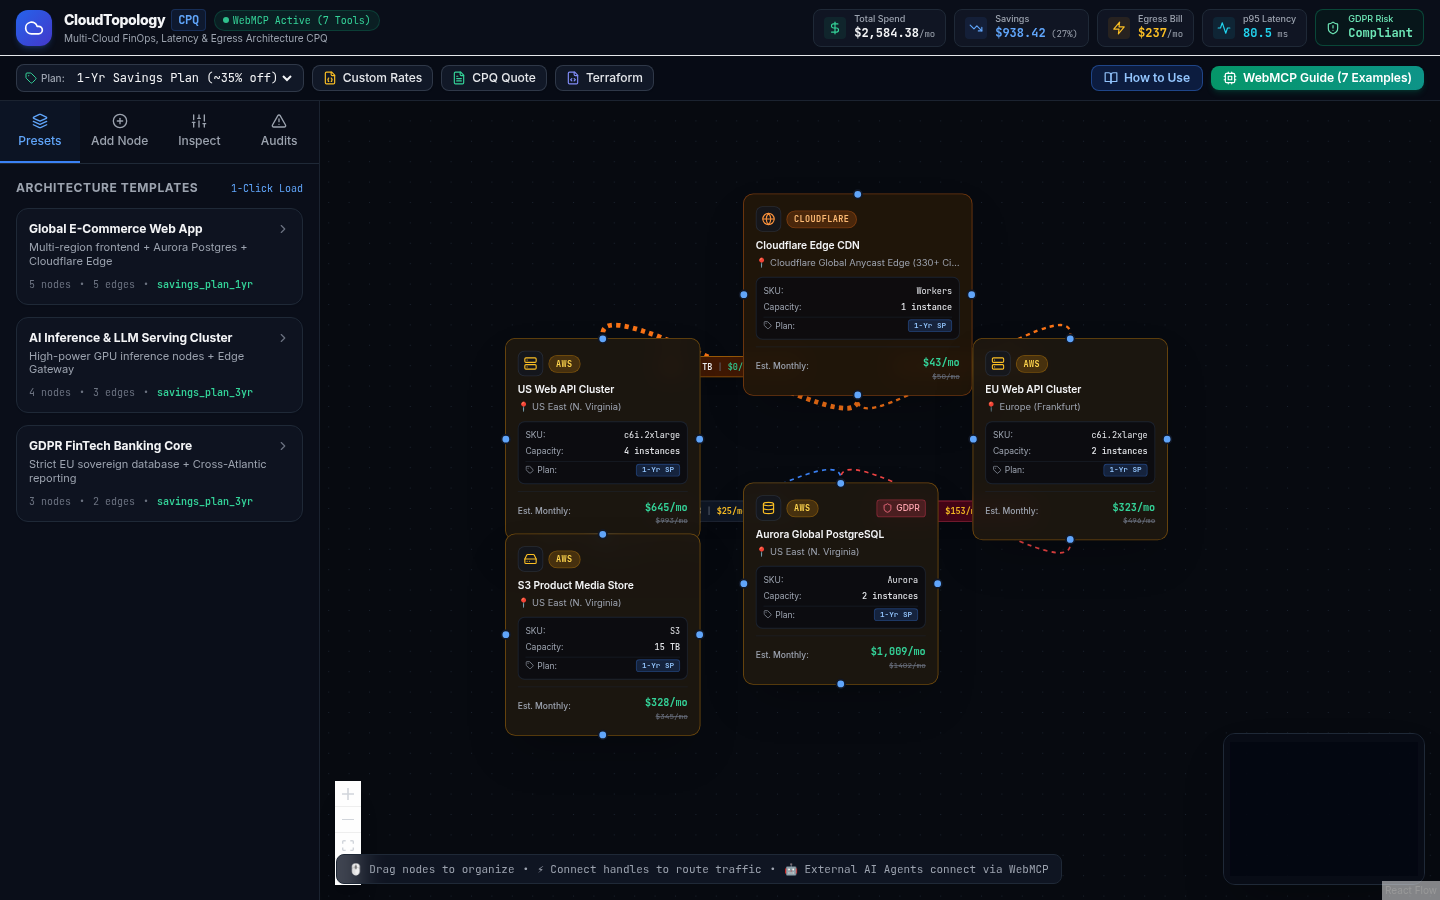
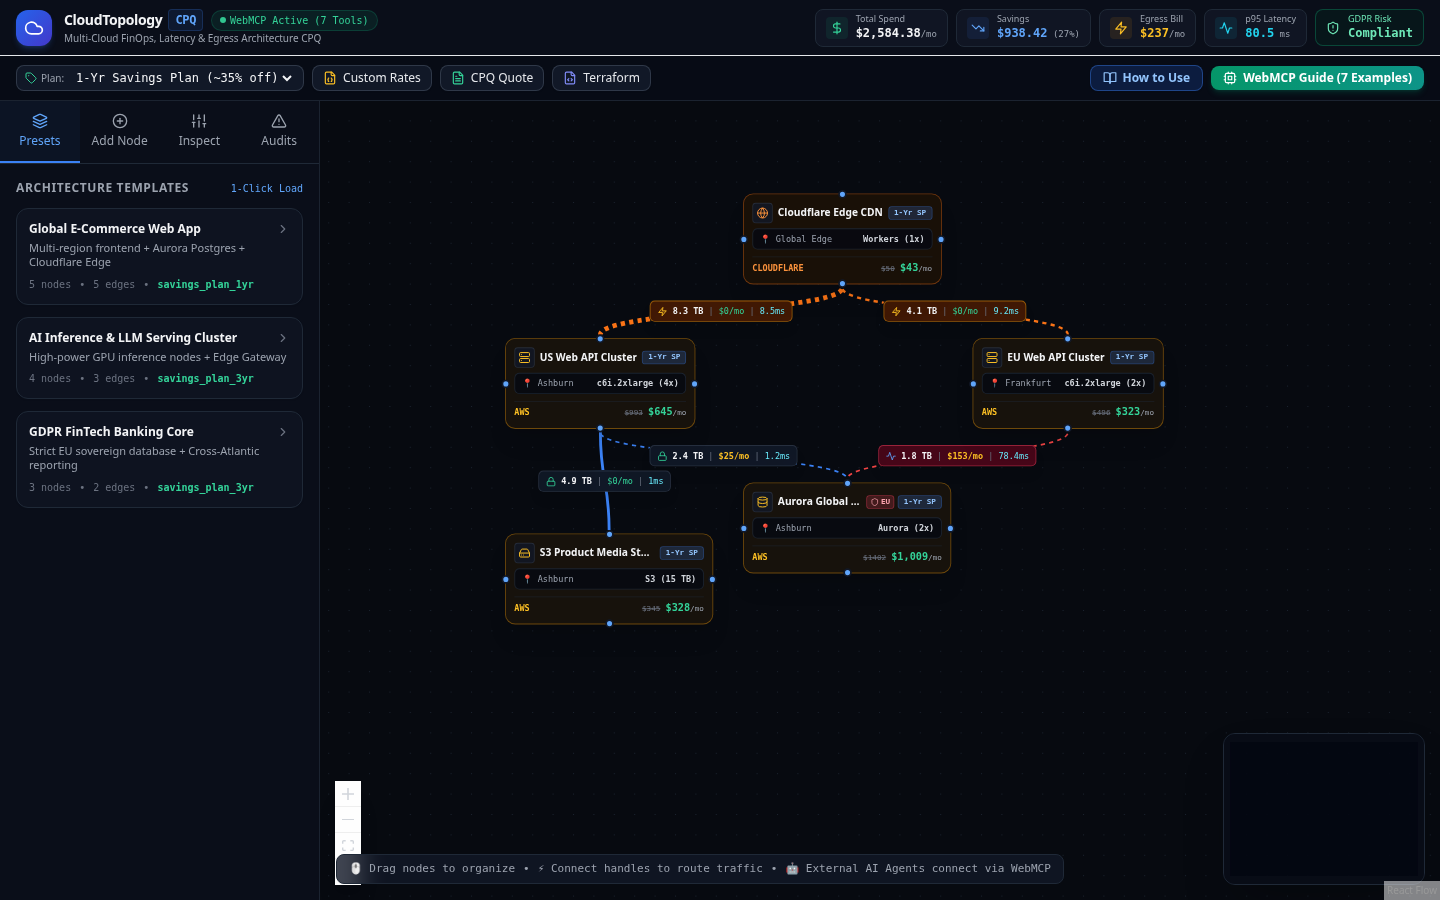
style: Reduce node card height by 40% for sleek high-density multi-region canvas

diff --git a/src/components/CustomNode.tsx b/src/components/CustomNode.tsx
@@ -1,32 +1,32 @@
 import { memo } from 'react';
 import { Handle, Position } from '@xyflow/react';
-import { Server, Database, HardDrive, Globe, Shield, Layers, Tag } from 'lucide-react';
+import { Server, Database, HardDrive, Globe, Shield, Layers } from 'lucide-react';
 import { TopologyNodeData } from '../types/topology';
 import { CLOUD_REGIONS, RESOURCE_SKUS } from '../data/catalog';
 
 const providerStyles: Record<string, { bg: string; border: string; badge: string; text: string }> = {
   aws: {
-    bg: 'bg-[#1E170F]/90',
+    bg: 'bg-[#18130D]/95',
     border: 'border-amber-500/40 hover:border-amber-500',
-    badge: 'bg-amber-500/20 text-amber-300 border-amber-500/30',
+    badge: 'bg-amber-500/15 text-amber-300 border-amber-500/30',
     text: 'text-amber-400',
   },
   gcp: {
-    bg: 'bg-[#0E1B2E]/90',
+    bg: 'bg-[#0B1524]/95',
     border: 'border-blue-500/40 hover:border-blue-500',
-    badge: 'bg-blue-500/20 text-blue-300 border-blue-500/30',
+    badge: 'bg-blue-500/15 text-blue-300 border-blue-500/30',
     text: 'text-blue-400',
   },
   azure: {
-    bg: 'bg-[#0D1C29]/90',
+    bg: 'bg-[#0A1620]/95',
     border: 'border-cyan-500/40 hover:border-cyan-500',
-    badge: 'bg-cyan-500/20 text-cyan-300 border-cyan-500/30',
+    badge: 'bg-cyan-500/15 text-cyan-300 border-cyan-500/30',
     text: 'text-cyan-400',
   },
   cloudflare: {
-    bg: 'bg-[#221609]/90',
+    bg: 'bg-[#1A1107]/95',
     border: 'border-orange-500/40 hover:border-orange-500',
-    badge: 'bg-orange-500/20 text-orange-300 border-orange-500/30',
+    badge: 'bg-orange-500/15 text-orange-300 border-orange-500/30',
     text: 'text-orange-400',
   },
 };
@@ -42,9 +42,9 @@ const serviceIcons: Record<string, any> = {
 
 const planLabels: Record<string, { label: string; bg: string; text: string }> = {
   on_demand: { label: 'On-Demand', bg: 'bg-gray-800 text-gray-300 border-gray-700', text: 'text-gray-300' },
-  savings_plan_1yr: { label: '1-Yr SP (~35% off)', bg: 'bg-blue-500/20 text-blue-300 border-blue-500/30', text: 'text-blue-400' },
-  savings_plan_3yr: { label: '3-Yr SP (~55% off)', bg: 'bg-emerald-500/20 text-emerald-300 border-emerald-500/30', text: 'text-emerald-400' },
-  spot: { label: 'Spot (~65% off)', bg: 'bg-purple-500/20 text-purple-300 border-purple-500/30', text: 'text-purple-400' },
+  savings_plan_1yr: { label: '1-Yr SP', bg: 'bg-blue-500/20 text-blue-300 border-blue-500/30', text: 'text-blue-400' },
+  savings_plan_3yr: { label: '3-Yr SP', bg: 'bg-emerald-500/20 text-emerald-300 border-emerald-500/30', text: 'text-emerald-400' },
+  spot: { label: 'Spot', bg: 'bg-purple-500/20 text-purple-300 border-purple-500/30', text: 'text-purple-400' },
 };
 
 export const CustomNode = memo((props: any) => {
@@ -75,88 +75,74 @@ export const CustomNode = memo((props: any) => {
 
   const dynamicMonthlyCost = Math.round(onDemandTotal * (1 - discount));
 
+  // Capacity short display
+  const capacityLabel = data.serviceType === 'storage'
+    ? `${(data.allocatedStorageGb || 1000) / 1000} TB`
+    : `${data.instances || 1}x`;
+
+  const shortSku = sku?.name ? sku.name.split(' ')[1] || sku.name : data.skuId || 'Standard';
+
   return (
     <div
-      className={`relative rounded-xl border p-3.5 shadow-2xl backdrop-blur-md transition-all duration-200 min-w-[230px] max-w-[270px] ${
+      className={`relative rounded-xl border p-2.5 shadow-xl backdrop-blur-md transition-all duration-200 min-w-[210px] max-w-[245px] ${
         providerStyle.bg
       } ${providerStyle.border} ${
         selected ? 'ring-2 ring-blue-400 scale-[1.02] shadow-blue-500/20' : ''
       }`}
     >
       {/* Connection Handles */}
-      <Handle type="target" position={Position.Top} className="!w-3 !h-3 !bg-blue-400 !border-2 !border-gray-900" />
-      <Handle type="source" position={Position.Bottom} className="!w-3 !h-3 !bg-blue-400 !border-2 !border-gray-900" />
-      <Handle type="target" position={Position.Left} className="!w-3 !h-3 !bg-blue-400 !border-2 !border-gray-900" />
-      <Handle type="source" position={Position.Right} className="!w-3 !h-3 !bg-blue-400 !border-2 !border-gray-900" />
+      <Handle type="target" position={Position.Top} className="!w-2.5 !h-2.5 !bg-blue-400 !border-2 !border-gray-900" />
+      <Handle type="source" position={Position.Bottom} className="!w-2.5 !h-2.5 !bg-blue-400 !border-2 !border-gray-900" />
+      <Handle type="target" position={Position.Left} className="!w-2.5 !h-2.5 !bg-blue-400 !border-2 !border-gray-900" />
+      <Handle type="source" position={Position.Right} className="!w-2.5 !h-2.5 !bg-blue-400 !border-2 !border-gray-900" />
 
-      {/* Header: Provider & Service Type */}
-      <div className="flex items-center justify-between gap-2 mb-2">
-        <div className="flex items-center gap-1.5">
-          <div className={`p-1.5 rounded-lg bg-gray-900/60 border border-gray-700/50 ${providerStyle.text}`}>
-            <ServiceIcon className="w-4 h-4" />
+      {/* Row 1: Icon + Title + Plan & GDPR Badges */}
+      <div className="flex items-center justify-between gap-1.5 mb-1.5">
+        <div className="flex items-center gap-1.5 min-w-0">
+          <div className={`p-1 rounded bg-gray-900/80 border border-gray-700/50 ${providerStyle.text} flex-shrink-0`}>
+            <ServiceIcon className="w-3.5 h-3.5" />
           </div>
-          <span className={`text-[10px] font-mono font-bold tracking-wider px-2 py-0.5 rounded-full border ${providerStyle.badge}`}>
-            {provider.toUpperCase()}
+          <span className="font-bold text-xs text-gray-100 truncate">
+            {data.label || 'Node'}
           </span>
         </div>
-        
-        {data.isPII && (
-          <span className="flex items-center gap-1 text-[10px] font-medium px-1.5 py-0.5 rounded bg-rose-500/20 text-rose-300 border border-rose-500/40" title="Contains PII Data - Subject to GDPR">
-            <Shield className="w-3 h-3 text-rose-400" />
-            GDPR
-          </span>
-        )}
-      </div>
 
-      {/* Node Title */}
-      <div className="font-semibold text-xs text-gray-100 truncate mb-1">
-        {data.label || 'Node'}
-      </div>
-
-      {/* Region & SKU Info */}
-      <div className="text-[11px] text-gray-400 mb-2 truncate">
-        📍 {region?.name || data.regionId || 'Global'}
-      </div>
-
-      {/* Specs / Details */}
-      <div className="bg-gray-950/60 rounded-lg p-2 border border-gray-800/80 mb-2 space-y-1">
-        <div className="flex justify-between items-center text-[10px] text-gray-300">
-          <span className="text-gray-400">SKU:</span>
-          <span className="font-mono text-gray-200 truncate max-w-[120px]" title={sku?.name}>
-            {sku?.name ? sku.name.split(' ')[1] || sku.name : data.skuId || 'Standard'}
-          </span>
-        </div>
-        <div className="flex justify-between items-center text-[10px] text-gray-300">
-          <span className="text-gray-400">Capacity:</span>
-          <span className="font-mono font-medium text-gray-200">
-            {data.serviceType === 'storage' 
-              ? `${(data.allocatedStorageGb || 1000) / 1000} TB`
-              : `${data.instances || 1} instance${(data.instances || 1) > 1 ? 's' : ''}`
-            }
-          </span>
-        </div>
-        <div className="flex justify-between items-center text-[10px] text-gray-300 pt-0.5 border-t border-gray-800/60">
-          <span className="text-gray-400 flex items-center gap-1">
-            <Tag className="w-2.5 h-2.5" /> Plan:
-          </span>
-          <span className={`font-mono text-[9px] px-1.5 py-0.2 rounded border font-semibold ${tierInfo.bg}`}>
-            {effectiveTier === 'on_demand' ? 'On-Demand' : effectiveTier === 'savings_plan_1yr' ? '1-Yr SP' : effectiveTier === 'savings_plan_3yr' ? '3-Yr SP' : 'Spot'}
-          </span>
-        </div>
-      </div>
-
-      {/* Footer: Price Badge */}
-      <div className="flex items-center justify-between pt-1 border-t border-gray-800/60">
-        <span className="text-[10px] text-gray-400 font-medium">Est. Monthly:</span>
-        <div className="text-right">
-          <span className="font-mono text-xs font-bold text-emerald-400">
-            ${dynamicMonthlyCost.toLocaleString()}/mo
-          </span>
-          {discount > 0 && (
-            <span className="text-[9px] text-gray-500 line-through block font-mono">
-              ${Math.round(onDemandTotal)}/mo
+        <div className="flex items-center gap-1 flex-shrink-0">
+          {data.isPII && (
+            <span className="text-[9px] font-mono font-semibold px-1 py-0.2 rounded bg-rose-500/20 text-rose-300 border border-rose-500/40 flex items-center gap-0.5">
+              <Shield className="w-2.5 h-2.5" /> EU
             </span>
           )}
+          <span className={`text-[9px] font-mono font-semibold px-1.5 py-0.2 rounded border ${tierInfo.bg}`}>
+            {tierInfo.label}
+          </span>
+        </div>
+      </div>
+
+      {/* Row 2: Region & Spec Chip */}
+      <div className="flex items-center justify-between text-[10px] text-gray-400 bg-gray-950/70 rounded-md px-2 py-1 mb-2 border border-gray-800/80 font-mono">
+        <span className="truncate max-w-[110px]" title={region?.name || data.regionId}>
+          📍 {region?.city || region?.name || data.regionId}
+        </span>
+        <span className="text-gray-300 font-semibold truncate max-w-[100px]" title={`${shortSku} (${capacityLabel})`}>
+          {shortSku} ({capacityLabel})
+        </span>
+      </div>
+
+      {/* Row 3: Compact Footer Price */}
+      <div className="flex items-center justify-between pt-1 border-t border-gray-800/60 text-[11px]">
+        <span className="text-[10px] text-gray-400 font-mono">
+          <span className={`font-bold uppercase ${providerStyle.text}`}>{provider}</span>
+        </span>
+        <div className="flex items-baseline gap-1.5">
+          {discount > 0 && (
+            <span className="text-[9px] text-gray-500 line-through font-mono">
+              ${Math.round(onDemandTotal)}
+            </span>
+          )}
+          <span className="font-mono text-xs font-bold text-emerald-400">
+            ${dynamicMonthlyCost.toLocaleString()}<span className="text-[9px] text-gray-400 font-normal">/mo</span>
+          </span>
         </div>
       </div>
     </div>
